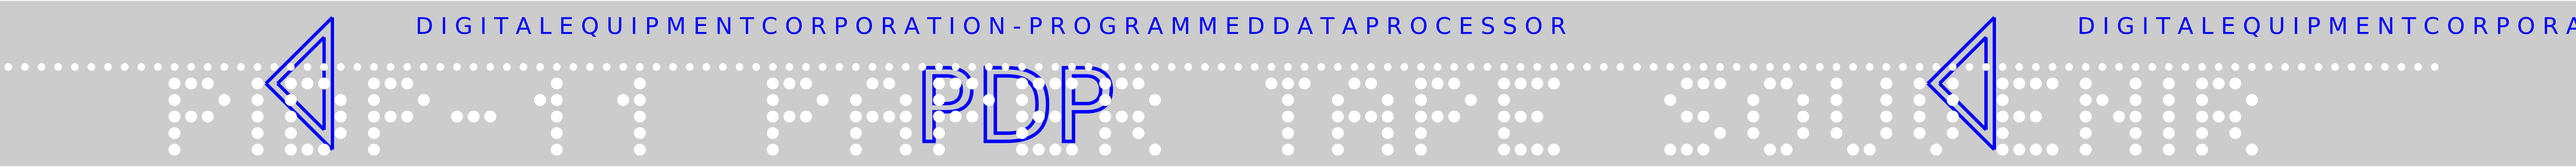
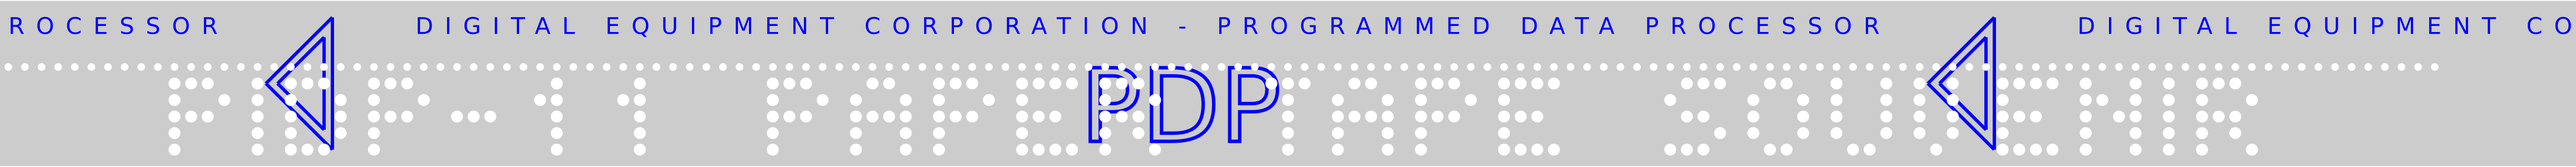
Modified letter spacing

diff --git a/tape2svg/tape2svg.py b/tape2svg/tape2svg.py
@@ -407,14 +407,14 @@ def writeSVGDrawTape():
                         y2 = bottom
                     ))
 
-                    options.outputfile.write(options.indent + '<text stroke="none" fill="blue" font-size="10pt" font-family="sans-serif" transform="translate({left}, {top}) rotate(90)">D I G I T A L   E Q U I P M E N T   C O R P O R A T I O N   -   P R O G R A M M E D   D A T A    P R O C E S S O R</text>\n'.format(
+                    options.outputfile.write(options.indent + '<text stroke="none" fill="blue" letter-spacing="0.5em" font-size="10pt" font-family="sans-serif" transform="translate({left}, {top}) rotate(90)">DIGITAL EQUIPMENT CORPORATION - PROGRAMMED DATA PROCESSOR</text>\n'.format(
                         left = 96 * (options.x + options.tapewidth - 0.2),
                         top = 96 * (markerpos + options.margintop + 0.5)
                     ))
 
                     options.outputfile.write(options.indent + '<text stroke="blue" stroke-width="2px" fill="none" font-size="44pt" font-family="sans-serif" transform="translate({left}, {top}) rotate(90)">PDP</text>\n'.format(
                         left = 96 * (options.x + 0.15),
-                        top = 96 * (markerpos + options.margintop + 3.5)
+                        top = 96 * (markerpos + options.margintop + 4.5)
                     ))
                 finally:
                     options.indent = unindent(options.indent)
